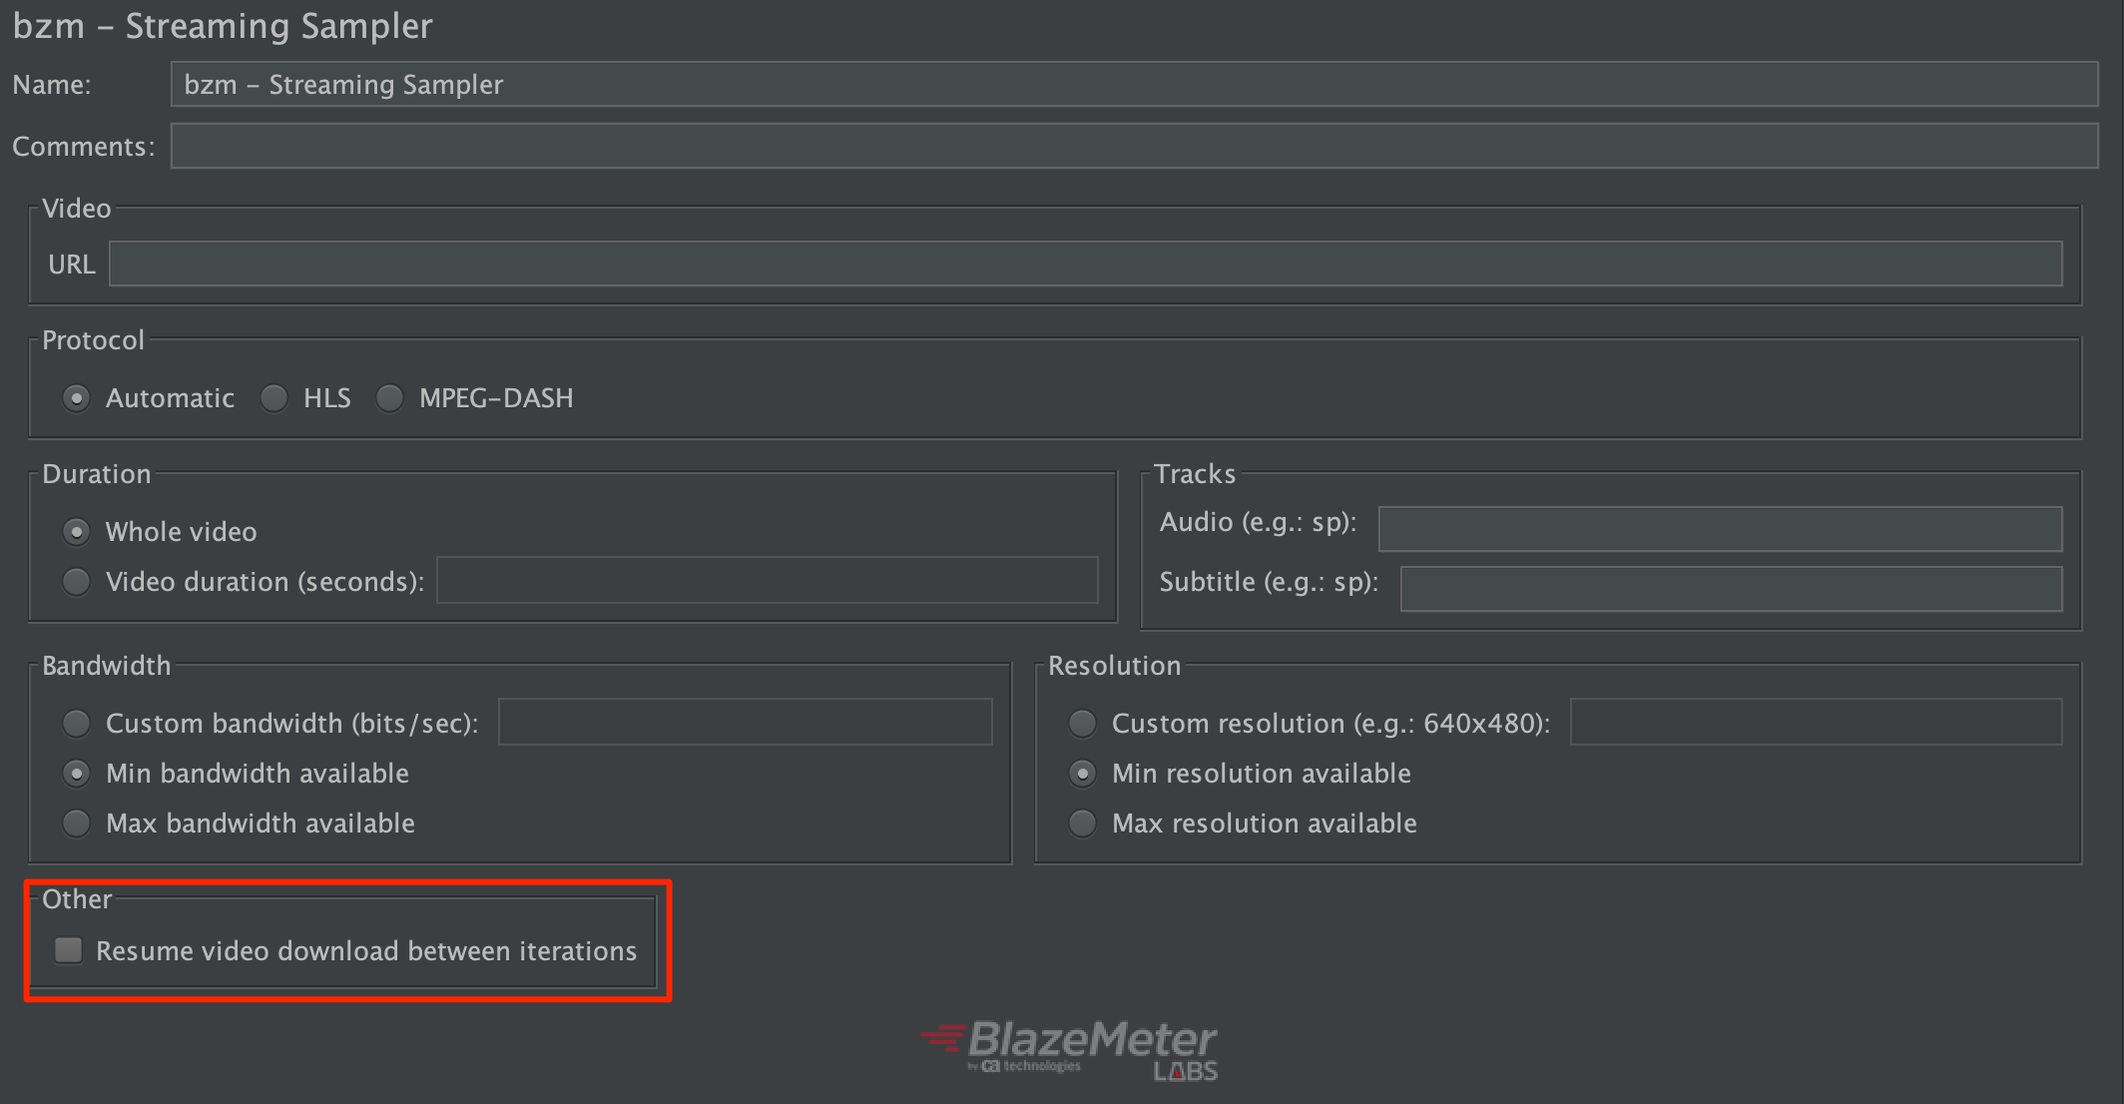
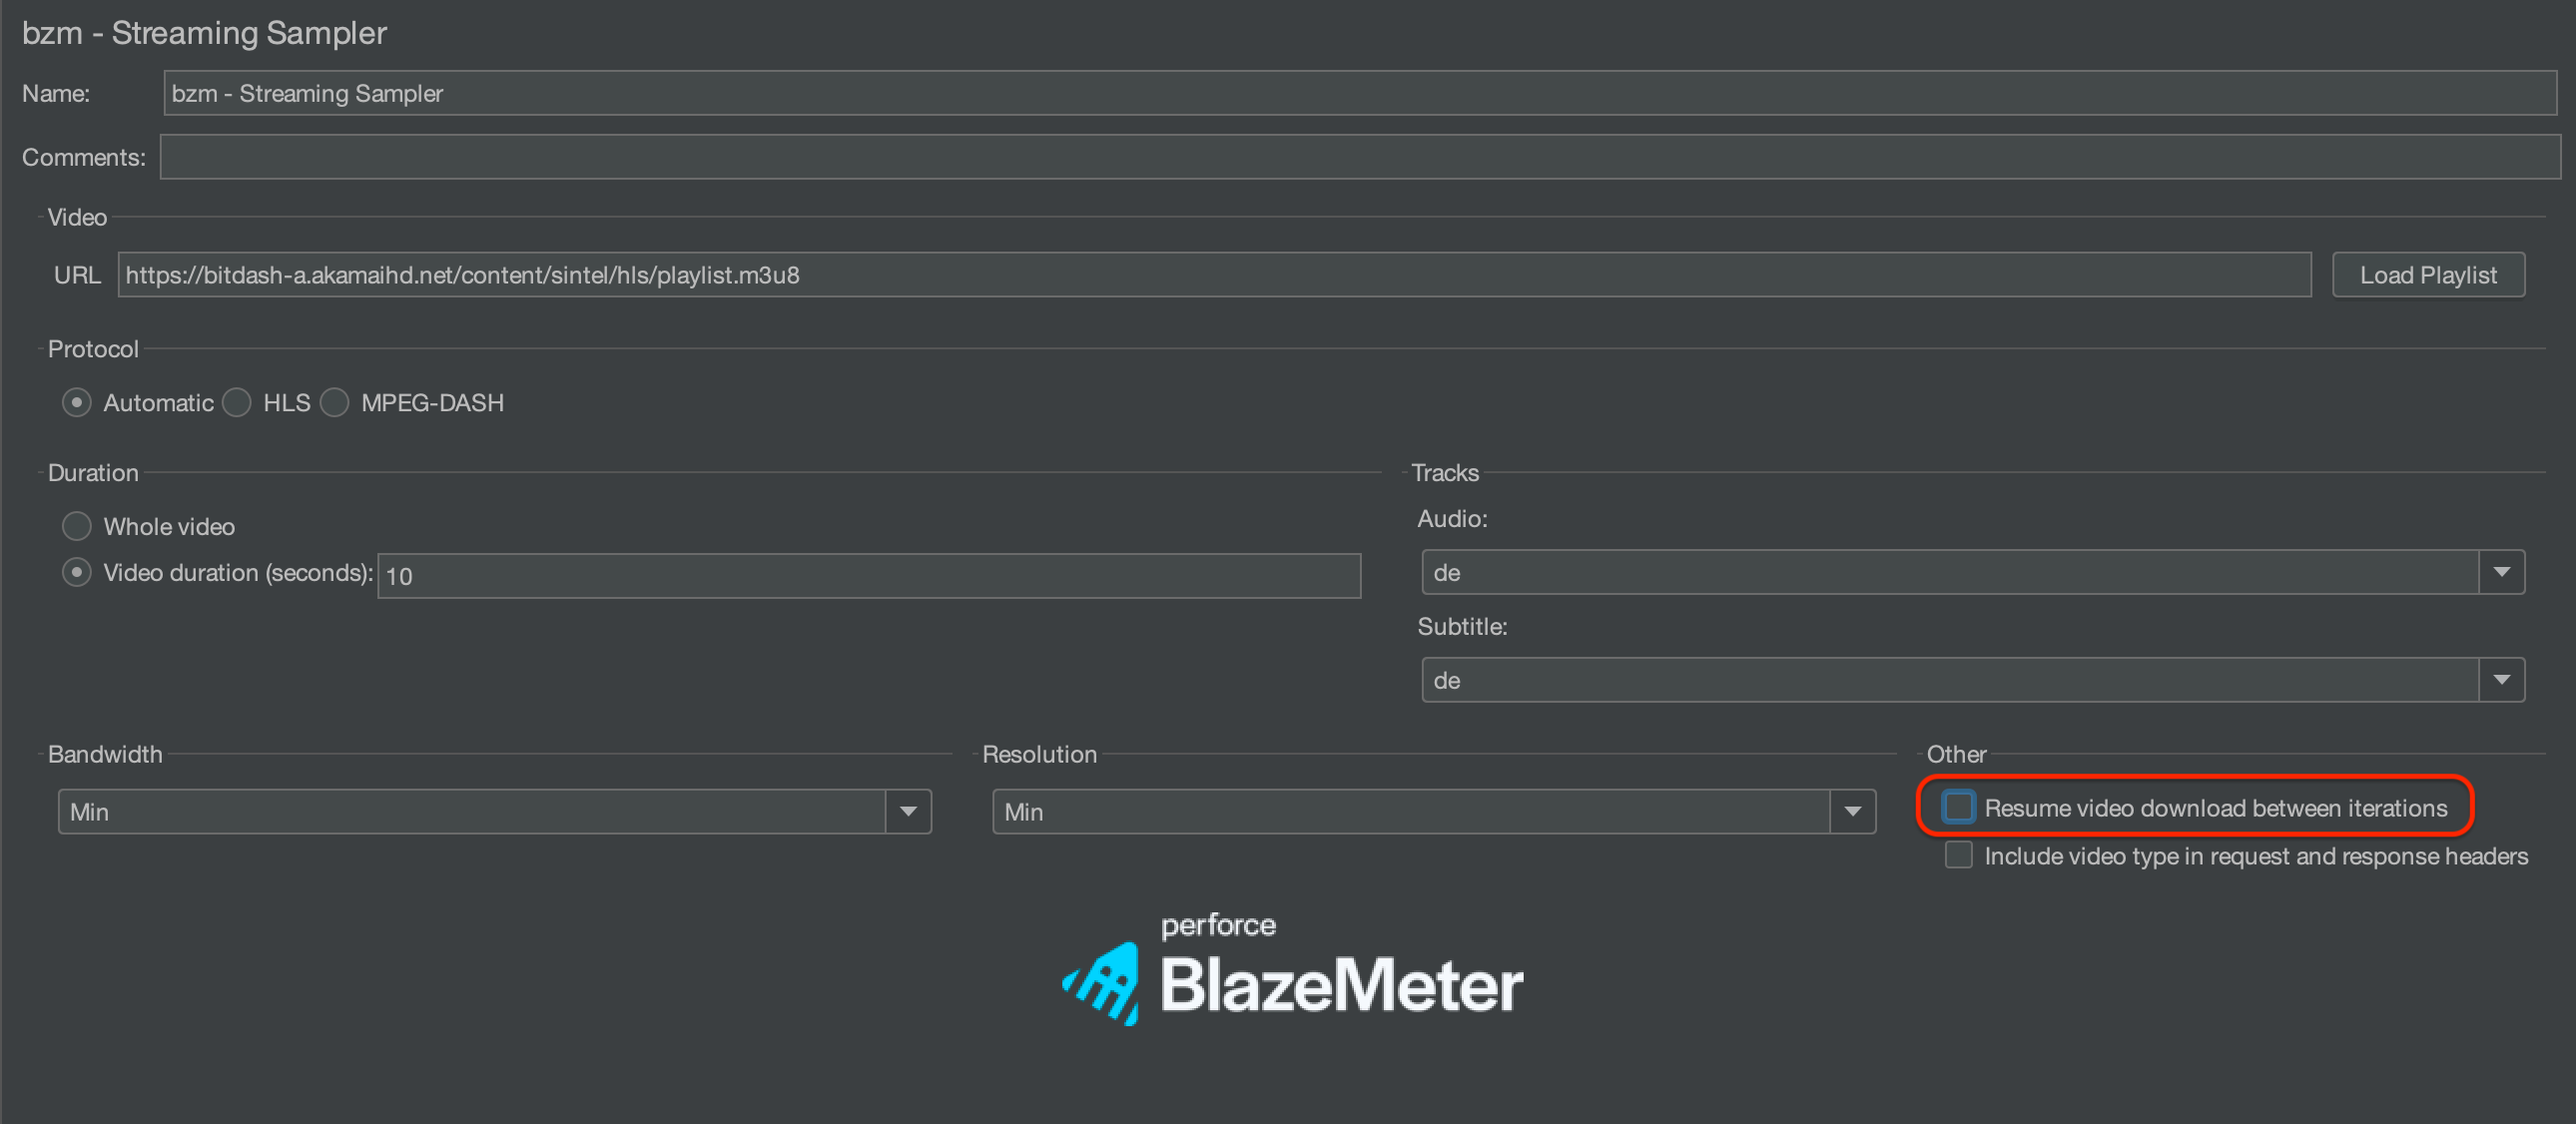
Release v3.2.1

diff --git a/src/main/java/com/blazemeter/jmeter/videostreaming/dash/Manifest.java b/src/main/java/com/blazemeter/jmeter/videostreaming/dash/Manifest.java
@@ -19,13 +19,14 @@ import java.util.stream.Collectors;
 public class Manifest extends com.blazemeter.jmeter.videostreaming.core.Manifest {
 
   private final MPD mpd;
-  private final Instant downloadTime;
+  private final Instant lastDownloadTime;
+  private Instant playbackStartTime;
   private final List<MediaPeriod> periods;
 
   private Manifest(URI uri, MPD mpd, Instant timestamp) {
     super(uri);
     this.mpd = mpd;
-    this.downloadTime = timestamp;
+    this.lastDownloadTime = timestamp;
     this.periods = buildPeriods(mpd);
   }
 
@@ -83,9 +84,13 @@ public class Manifest extends com.blazemeter.jmeter.videostreaming.core.Manifest
     return mpd.getMinimumUpdatePeriod();
   }
 
-  public long getReloadTimeMillis(Instant now) {
-    return Math
-        .max(mpd.getMinimumUpdatePeriod().minus(Duration.between(downloadTime, now)).toMillis(), 0);
+  public long getReloadTimeMillis(long segmentDurationMillis) {
+    // wait at least segment duration if minUpdatePeriod is 0 (or very small)
+    long maxIntervalTime = Math.max(
+        mpd.getMinimumUpdatePeriod().toMillis(), segmentDurationMillis);
+
+    return Math.max(maxIntervalTime - Duration.between(
+        lastDownloadTime, Instant.now()).toMillis(), 0);
   }
 
   public Duration getBufferStartTime() {
@@ -99,12 +104,15 @@ public class Manifest extends com.blazemeter.jmeter.videostreaming.core.Manifest
 
   public Duration getClocksDiff() {
     OffsetDateTime publishTime = mpd.getPublishTime();
-    return publishTime != null ? Duration.between(downloadTime, publishTime) : Duration.ZERO;
+    return publishTime != null ? Duration.between(lastDownloadTime, publishTime) : Duration.ZERO;
   }
 
   public Instant getAvailabilityStartTime() {
     OffsetDateTime time = mpd.getAvailabilityStartTime();
-    return time != null ? time.toInstant() : Instant.MIN;
+    if (time == null && playbackStartTime == null) {
+      playbackStartTime = Instant.now();
+    }
+    return time != null ? time.toInstant() : playbackStartTime;
   }
 
   public List<String> getVideoLanguages() {

diff --git a/src/main/java/com/blazemeter/jmeter/hls/gui/HlsSamplerPanel.java b/src/main/java/com/blazemeter/jmeter/hls/gui/HlsSamplerPanel.java
@@ -1,5 +1,6 @@
 package com.blazemeter.jmeter.hls.gui;
 
+import com.blazemeter.jmeter.commons.BlazemeterLabsLogo;
 import com.blazemeter.jmeter.hls.logic.BandwidthSelector;
 import com.blazemeter.jmeter.hls.logic.ResolutionSelector;
 import com.blazemeter.jmeter.hls.logic.ResolutionSelector.CustomResolutionSelector;
@@ -41,6 +42,7 @@ public class HlsSamplerPanel extends JPanel implements ActionListener {
       .getLogger(HlsSamplerPanel.class);
 
   private static final String LOAD = "LOAD";
+  private static final String PLUGIN_REPOSITORY_URL = "https://github.com/Blazemeter/HLSPlugin";
   private JTextField masterUrlField;
 
   private JRadioButton playVideoDurationOption;
@@ -89,7 +91,7 @@ public class HlsSamplerPanel extends JPanel implements ActionListener {
     JPanel resumeDownloadPanel = buildResumeDownloadPanel();
     JPanel protocolSelectionPanel = buildProtocolSelectionPanel();
 
-    BlazeMeterLabsLogo blazeMeterLabsLogo = new BlazeMeterLabsLogo();
+    BlazemeterLabsLogo blazeMeterLabsLogo = new BlazemeterLabsLogo(PLUGIN_REPOSITORY_URL);
     GroupLayout layout = new GroupLayout(this);
     layout.setAutoCreateContainerGaps(true);
     layout.setAutoCreateGaps(true);
@@ -593,8 +595,8 @@ public class HlsSamplerPanel extends JPanel implements ActionListener {
   }
 
   private ChangeListener bandwidthListener(JLabeledChoice bandwidthBox,
-                                           JLabeledChoice resolutionBox, Map<String,
-                                           String> bandwidthResolutionMap) {
+      JLabeledChoice resolutionBox, Map<String,
+      String> bandwidthResolutionMap) {
     Set<String> newResolutions = new HashSet<>();
     return e -> {
       String resolutionSelection = resolutionBox != null ? resolutionBox.getText() : "";

diff --git a/src/main/java/com/blazemeter/jmeter/videostreaming/dash/DashSampler.java b/src/main/java/com/blazemeter/jmeter/videostreaming/dash/DashSampler.java
@@ -74,7 +74,9 @@ public class DashSampler extends VideoStreamingSampler<Manifest, DashMediaSegmen
       boolean initialLoop = true;
       while (!mediaPlayback.hasEnded()) {
         if (mediaPlayback.needsManifestUpdate() && !initialLoop) {
-          long awaitMillis = manifest.getReloadTimeMillis(timeMachine.now());
+          long awaitMillis = manifest.getReloadTimeMillis(
+              mediaPlayback.getLastSegment().getDurationMillis()
+          );
           if (awaitMillis > 0) {
             timeMachine.awaitMillis(awaitMillis);
           }
@@ -254,10 +256,7 @@ public class DashSampler extends VideoStreamingSampler<Manifest, DashMediaSegmen
     }
 
     private boolean needsManifestUpdate() {
-      return manifest.isDynamic()
-          && manifest.getMinimumUpdatePeriod() != null
-          && (manifest.getReloadTimeMillis(timeMachine.now()) <= 0
-          || !segmentBuilder.hasNext() && !periods.hasNext());
+      return manifest.isDynamic() || !segmentBuilder.hasNext() && !periods.hasNext();
     }
 
   }

diff --git a/src/main/java/com/blazemeter/jmeter/hls/logic/VideoStreamingSamplerFactory.java b/src/main/java/com/blazemeter/jmeter/hls/logic/VideoStreamingSamplerFactory.java
@@ -18,12 +18,16 @@ public class VideoStreamingSamplerFactory {
         return createDashSampler(baseSampler, httpClient, timeMachine, sampleResultProcessor);
       default:
         //HLS Master Playlist must contain this .m3u8 extension in their URLs
-        if (url.contains(".m3u8")) {
+        if (isHLSPlaylistLink(url)) {
           return createHlsSampler(baseSampler, httpClient, timeMachine, sampleResultProcessor);
         } else {
           return createDashSampler(baseSampler, httpClient, timeMachine, sampleResultProcessor);
         }
     }
+  }
+
+  public static boolean isHLSPlaylistLink(String url) {
+    return url.contains(".m3u8") || url.contains("format=m3u8");
   }
 
   private DashSampler createDashSampler(HlsSampler baseSampler, VideoStreamingHttpClient httpClient,

diff --git a/src/main/java/com/blazemeter/jmeter/videostreaming/hls/HlsSampler.java b/src/main/java/com/blazemeter/jmeter/videostreaming/hls/HlsSampler.java
@@ -1,5 +1,7 @@
 package com.blazemeter.jmeter.videostreaming.hls;
 
+import static com.blazemeter.jmeter.hls.logic.VideoStreamingSamplerFactory.isHLSPlaylistLink;
+
 import com.blazemeter.jmeter.hls.logic.BandwidthSelector;
 import com.blazemeter.jmeter.hls.logic.ResolutionSelector;
 import com.blazemeter.jmeter.videostreaming.core.MediaSegment;
@@ -271,7 +273,7 @@ public class HlsSampler extends VideoStreamingSampler<Playlist, MediaSegment> {
     }
     try {
       HTTPSampleResult playlistResult = httpClient.downloadUri(uri);
-      if (!uri.toString().contains(".m3u8")) {
+      if (!isHLSPlaylistLink(uri.toString())) {
         String playlistName = namer.apply(null);
         sampleResultProcessor.accept(playlistName, playlistResult);
         return null;

diff --git a/src/test/java/com/blazemeter/jmeter/videostreaming/dash/DashSamplerTest.java b/src/test/java/com/blazemeter/jmeter/videostreaming/dash/DashSamplerTest.java
@@ -17,7 +17,7 @@ public class DashSamplerTest extends VideoStreamingSamplerTest {
   private static final String DEFAULT_SUBTITLES_ADAPTATION_SET = "minBandwidthSubtitlesEnglish";
   public static final int SEGMENTS_COUNT = 5;
   private static final double VIDEO_DURATION_SECONDS = 3.0;
-  private static final double AUDIO_DURATION_SECONDS = 3.84;
+  private static final double AUDIO_DURATION_SECONDS = 3.0;
   private static final double SUBTITLES_DURATION_SECONDS = 10.0;
   private static final int PLAYBACK_TIME_SECONDS = 5;
 

diff --git a/src/main/java/com/blazemeter/jmeter/videostreaming/core/MediaSegment.java b/src/main/java/com/blazemeter/jmeter/videostreaming/core/MediaSegment.java
@@ -35,7 +35,11 @@ public class MediaSegment {
   }
 
   public double getDurationSeconds() {
-    return (double) duration.toMillis() / 1000;
+    return (double) duration.getSeconds();
+  }
+
+  public long getDurationMillis() {
+    return duration.toMillis();
   }
 
   public int getByteLength() {

diff --git a/README.md b/README.md
@@ -1,12 +1,21 @@
 # HLS PLUGIN
 
+---
+
+<picture>
+ <source media="(prefers-color-scheme: dark)" srcset="https://raw.githubusercontent.com/Blazemeter/jmeter-bzm-commons/refs/heads/master/src/main/resources/dark-theme/blazemeter-by-perforce-logo.png">
+ <img src="https://raw.githubusercontent.com/Blazemeter/jmeter-bzm-commons/refs/heads/master/src/main/resources/light-theme/blazemeter-by-perforce-logo.png">
+</picture>
+
+
+
 The HLS protocol provides a reliable, cost-effective means of delivering continuous and long-form video over the Internet. It allows a receiver to adapt the bitrate of the media to the current network conditions, in order to maintain uninterrupted playback at the best possible quality.
 
 Likewise, trying to provide a wider spectrum of protocols to support videos streaming and video on demand, the plugin also recognizes MPEG-DASH links automatically, without having to point it out in the interface, supporting the downloads of manifests and segments with a predefined resolution and bandwidth.
  
 For more information related to HLS, please refer to the  [wikipedia page](https://en.wikipedia.org/wiki/HTTP_Live_Streaming) or to the [RFC](https://tools.ietf.org/html/rfc8216) and, for MPEG DASH, please refer to the [wikipedia page](https://en.wikipedia.org/wiki/Dynamic_Adaptive_Streaming_over_HTTP) or to the [ISO](https://standards.iso.org/ittf/PubliclyAvailableStandards/c065274_ISO_IEC_23009-1_2014.zip).
 
-Currently, the project uses the [HLSParserJ](https://github.com/Comcast/hlsparserj) library to parse the HLS playlists and a [fork](https://github.com/Blazemeter/mpd-tools) of [MPD-Tools](https://github.com/carlanton/mpd-tools) for MPEG-DASH manifest and segments.
+Currently, the project uses a [fork](https://github.com/Blazemeter/hlsparserj) of the [HLSParserJ](https://github.com/Comcast/hlsparserj) library to parse the HLS playlists and a [fork](https://github.com/Blazemeter/mpd-tools) of [MPD-Tools](https://github.com/carlanton/mpd-tools) for MPEG-DASH manifest and segments.
 
 **NOTICE**
 
@@ -25,7 +34,7 @@ Notice that the automatic recognition of the HLS protocol is based on the requir
 #### In a Dynamic Adaptive Streaming over HTTP Live Streaming process:
 
 - The encoder creates a Manifest which contains all the Periods, among Base URLs and the Adaptation Sets to do the filtering, based on resolution, bandwidth and language selector.
-- The plugin is coded so it will download the segments, for each Adaptation Set selected, consecutively, instead of doing it in parallel.
+- The plugin is coded, so it will download the segments, for each Adaptation Set selected, consecutively, instead of doing it in parallel.
 - The plugin will update the manifest based on the ```timeShiftBufferDepth``` attribute of MPD.
 
 Notice that, just like is done for HLS, the recognition on this protocol is based on the URL of the Manifest, which should contain ".mpd" on it. In cases, it doesn't meet this requirement, and the url don't contain ".m3a8", it is going to be considered a MPEG-DASH as well.
@@ -57,7 +66,9 @@ After that you can add assertions, listeners, etc.
 
 #### Master playlist URL
 
-Set the link to the master playlist file
+Set the link to the master playlist file.  
+A new feature was added which is the 'Load Playlist' button. Its purpose is to load all the available variants for the given Master url, such as Audio, Subtitle, Bandwidth and Resolutions on its respective Combo Box
+where the user can choose the desired option. Also, this combo boxes can be edited so JMeter variables can be inserted.
 
 ![](docs/video-url.png)
 
@@ -75,28 +86,27 @@ Set the playback time to either the whole video, or a certain amount of seconds.
 
 #### Audio & subtitles tracks
 
-You can specify if you want the plugin to download a specific alternative audio or subtitle track by either the language code or name (e.g. `fr` or `french`).
+As stated before you can set default values or choose a specific alternative audio or subtitle track option from the ones displayed in the combo boxes once you load the playlist.
 
-![](docs/audio-and-subtitles.png)
+![](docs/tracks-panel.png)
 
-#### Bandwidth
+#### Bandwidth & resolution
 
-Select the bandwidth criteria to be used to select a particular variant of the video.
+Select the bandwidth and resolution criteria to be used to select a particular variant of the video. As bandwidth and resolutions are related, once you choose a specific bandwidth, the resolution options will be restrained in order to show only the ones that are compatible with each specific bandwidth. However, 'min' and 'max' options are always available.
 
-![](docs/bandwidth.png)
-
-#### Resolution
-
-Select the resolution criteria to be used to select a particular variant of the video. The plugin will consider the bandwidth criteria more important, unless resolution is set to a custom value and bandwidth is not.
-
-![](docs/resolution.png)
-
+![](docs/bandwidth-and-resolution.png)
 
 #### Resume video downloads
 
+![](docs/resume-video.png)
+
 Specify whether you want the playback to be resumed or not between. If you leave the default value, then the plugin will restart playback from the beginning of the stream on each iteration.
 
-![](docs/resume-video.png)
+#### Add video type to request and response headers
+
+![](docs/type-in-headers.png)
+
+Specify whether you want the video type to be added to request and response headers for the playlist/manifest requests. The type will allow you to apply assertions if the video is a VOD or Live stream.
 
 ## Results
 
